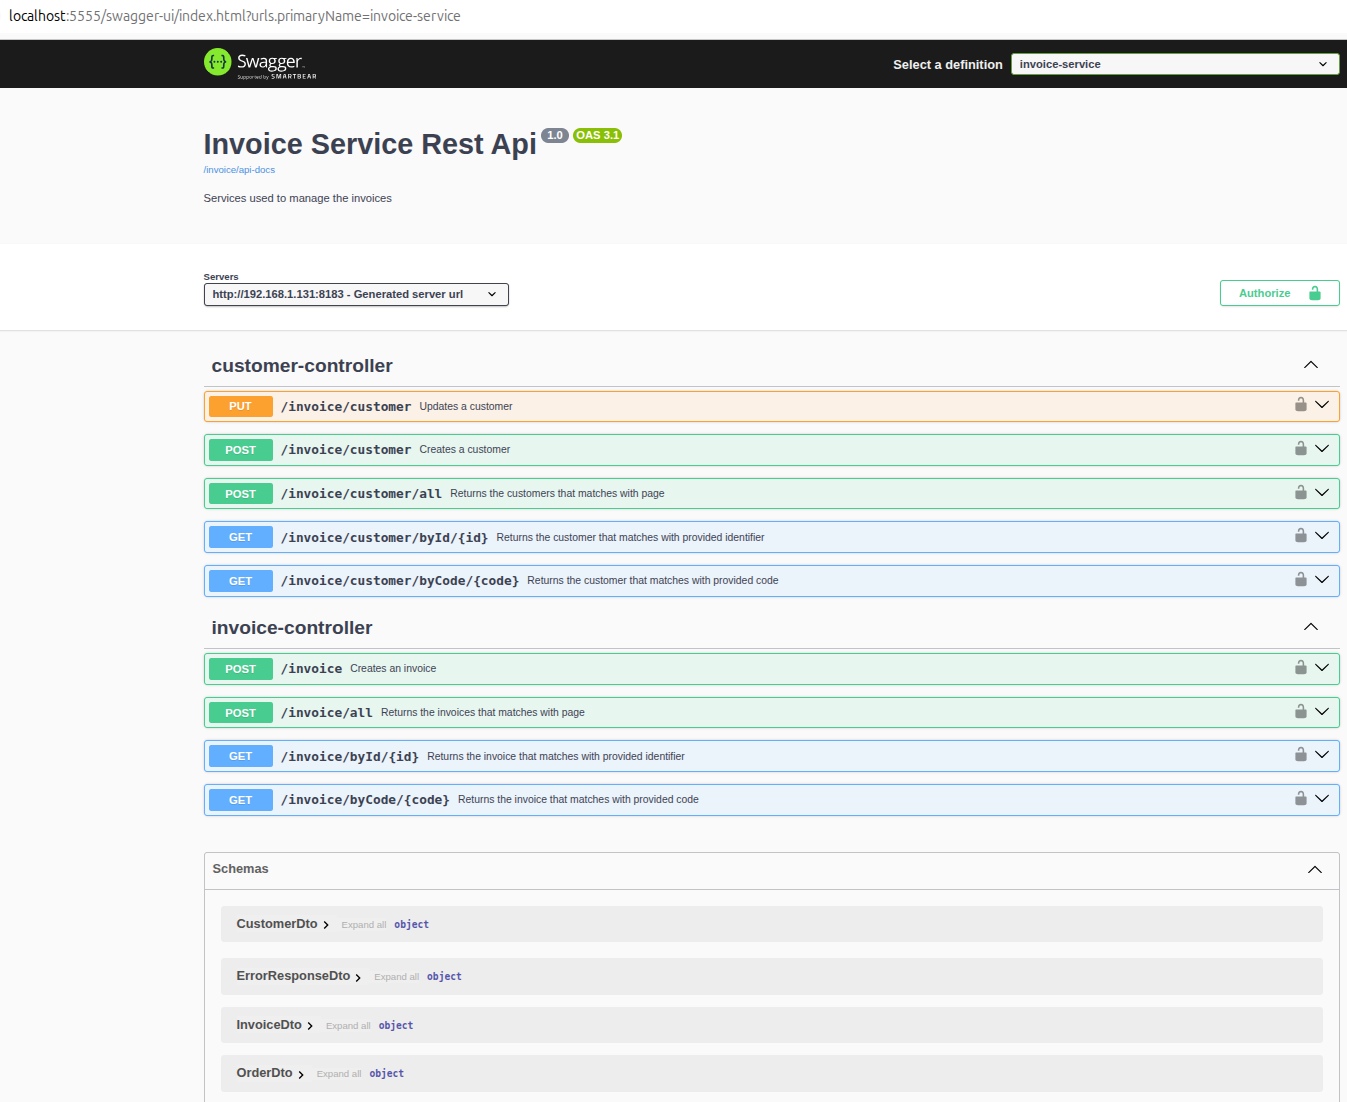
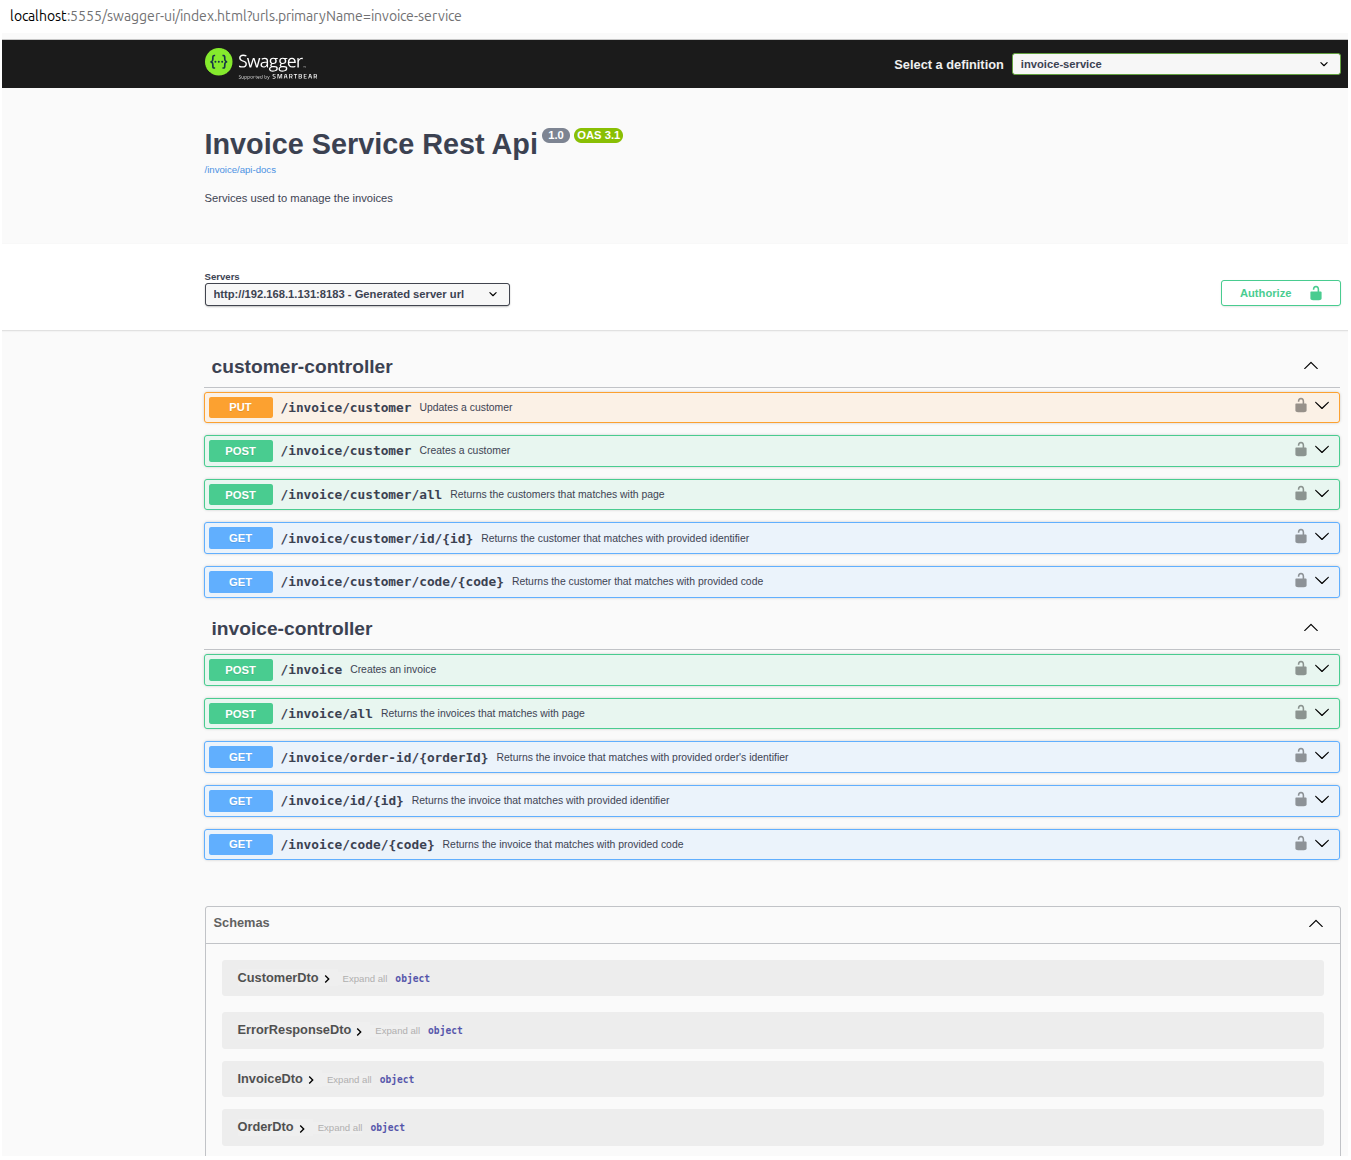
Improved REST API URLs

diff --git a/invoice-service/src/main/java/com/invoice/configuration/rest/RestRoutes.java b/invoice-service/src/main/java/com/invoice/configuration/rest/RestRoutes.java
@@ -10,16 +10,16 @@ public final class RestRoutes {
     public static final class INVOICE {
         public static final String ROOT = RestRoutes.ROOT;
         public static final String FIND_ALL = "/all";
-        public static final String BY_CODE = "/byCode";
-        public static final String BY_ID = "/byId";
-        public static final String BY_ORDERID = "/byOrderId";
+        public static final String BY_CODE = "/code";
+        public static final String BY_ID = "/id";
+        public static final String BY_ORDERID = "/order-id";
     }
 
     public static final class CUSTOMER {
         public static final String ROOT = RestRoutes.ROOT + "/customer";
         public static final String FIND_ALL = "/all";
-        public static final String BY_CODE = "/byCode";
-        public static final String BY_ID = "/byId";
+        public static final String BY_CODE = "/code";
+        public static final String BY_ID = "/id";
     }
 
 }

diff --git a/order-service/src/main/java/com/order/configuration/rest/RestRoutes.java b/order-service/src/main/java/com/order/configuration/rest/RestRoutes.java
@@ -9,8 +9,8 @@ public final class RestRoutes {
 
     public static final class ORDER {
         public static final String ROOT = RestRoutes.ROOT;
-        public static final String BY_CODE = "/byCode";
-        public static final String BY_ID = "/byId";
+        public static final String BY_CODE = "/code";
+        public static final String BY_ID = "/id";
     }
 
 }
